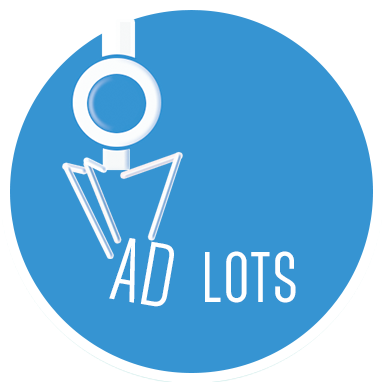
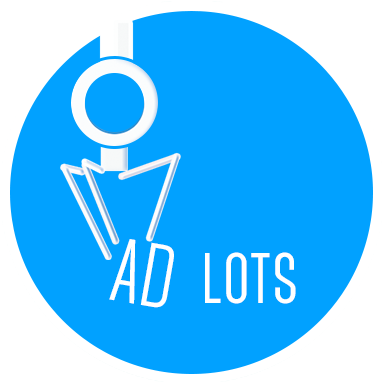
방학버전_홈페이지 수정

diff --git a/index.html b/index.html
@@ -71,9 +71,8 @@
 
     <header>
         <div class="header-content">
-          <p style="padding-top: 26px;"></p>
-            <div class="header-content-inner">
-                <h1>광고에 '같이'를 더하다</br></br>애드랏츠 ADLOTS </h1>
+            <div class="header-content-inner" >
+                <h1 >광고에 '같이'를 더하다</br></br>애드랏츠 ADLOTS </h1>
                 <hr>
                 <p>작은 포인트도 우리에겐 소중하다!</p>
                 <a href="https://play.google.com/store/apps/details?id=com.adlots.adlots" class="btn btn-primary btn-xl page-scroll" target="_blank">
@@ -145,7 +144,7 @@
                 </div>
                 <div class="col-lg-4 col-sm-6">
                     <a href="#" class="portfolio-box">
-                        <img src="img/portfolio/image2.jpg" class="img-responsive" alt="">
+                        <img src="img/portfolio/image2.png" class="img-responsive" alt="">
                         <div class="portfolio-box-caption">
                             <div class="portfolio-box-caption-content">
                                 <div class="project-category text-faded">
@@ -160,7 +159,7 @@
                 </div>
                 <div class="col-lg-4 col-sm-6">
                     <a href="#" class="portfolio-box">
-                        <img src="img/portfolio/image3.jpg" class="img-responsive" alt="">
+                        <img src="img/portfolio/image3.png" class="img-responsive" alt="">
                         <div class="portfolio-box-caption">
                             <div class="portfolio-box-caption-content">
                                 <div class="project-category text-faded">
@@ -175,7 +174,7 @@
                 </div>
                 <div class="col-lg-4 col-sm-6">
                     <a href="#" class="portfolio-box">
-                        <img src="img/portfolio/image4.jpg" class="img-responsive" alt="">
+                        <img src="img/portfolio/image4.png" class="img-responsive" alt="">
                         <div class="portfolio-box-caption">
                             <div class="portfolio-box-caption-content">
                                 <div class="project-category text-faded">
@@ -190,7 +189,7 @@
                 </div>
                 <div class="col-lg-4 col-sm-6">
                     <a href="#" class="portfolio-box">
-                        <img src="img/portfolio/image5.jpg" class="img-responsive" alt="">
+                        <img src="img/portfolio/image5.png" class="img-responsive" alt="">
                         <div class="portfolio-box-caption">
                             <div class="portfolio-box-caption-content">
                                 <div class="project-category text-faded">
@@ -205,7 +204,7 @@
                 </div>
                 <div class="col-lg-4 col-sm-6">
                     <a href="#" class="portfolio-box">
-                        <img src="img/portfolio/image6.jpg" class="img-responsive" alt="">
+                        <img src="img/portfolio/image6.png" class="img-responsive" alt="">
                         <div class="portfolio-box-caption">
                             <div class="portfolio-box-caption-content">
                                 <div class="project-category text-faded">
@@ -252,7 +251,7 @@
                     <p><a href="mailto:adlots@naver.com">adlots@naver.com</a></p>
                 </div>
 
-                <div class="footer" id="sns">
+                <div class="col-lg-4 center">
                   <p>
                     <h5>
                     블로그
@@ -273,7 +272,7 @@
                 </div>
 
                       <div id="gmap">
-                        <iframe  frameborder="0" scrolling="no" marginheight="0" marginwidth="0" src="https://www.google.com/maps/embed?pb=!1m18!1m12!1m3!1d2728.876750224269!2d129.18784272461602!3d35.57346378861907!2m3!1f0!2f0!3f0!3m2!1i1024!2i768!4f13.1!3m3!1m2!1s0x35662fd1610bf9e5%3A0x6fba45de1824ac69!2zVU5JU1Qo7Jq47IKw6rO87ZWZ6riw7Iig7JuQKQ!5e0!3m2!1sko!2sus!4v1461464628712" width="400" height="300" frameborder="0" style="border:1" ></iframe>
+                        <iframe  frameborder="0" scrolling="no" marginheight="0" marginwidth="0" src="https://www.google.com/maps/embed?pb=!1m18!1m12!1m3!1d2728.876750224269!2d129.18784272461602!3d35.57346378861907!2m3!1f0!2f0!3f0!3m2!1i1024!2i768!4f13.1!3m3!1m2!1s0x35662fd1610bf9e5%3A0x6fba45de1824ac69!2zVU5JU1Qo7Jq47IKw6rO87ZWZ6riw7Iig7JuQKQ!5e0!3m2!1sko!2sus!4v1461464628712"  height="300" frameborder="0" style="border:1" ></iframe>
                 </div>
 
 
@@ -281,7 +280,17 @@
         </div>
     </section>
 
+    <footer style="padding: 10px;">
 
+      <p>
+        <h6 style=" height: 150px;" > 대표자 : 백경인<br> 상호명 : 크라우딧 <br> 사업자등록번호 620-13-56399<br></br>
+        사업자 정보 확인 : </br>울산광역시 울주군 언양읍 유니스트길 50<br></br>
+        Copyright © 2015- adlots Inc. All rights reserved.
+        </h6>
+      </p>
+
+
+    </footer>
 
     <!-- jQuery -->
     <script src="js/jquery.js"></script>
@@ -297,21 +306,7 @@
     <!-- Custom Theme JavaScript -->
     <script src="js/creative.js"></script>
 
-<footer>
-  <div id="footer_logo" class>
-    <a href = "http://adlots.co.kr" traget="_blank">
-      <img src="img/adlots.png" width="100" height="100" alt="adlots_logo">
-    </a>
-  </div>
-  <p>
-    <h6> 대표자 : 백경인<br> 상호명 : 애드랏츠 주식회사 <br> 사업자등록번호 620-13-56399<br></br>
-    사업자정보확인 : 울산광역시 울주군 언양읍 유니스트길 50<br></br>
-    Copyright © 2015- adlots Inc. All rights reserved.
-    </h6>
-  </p>
 
-
-</footer>
 
 
 

diff --git a/css/creative.css b/css/creative.css
@@ -186,7 +186,7 @@ header {
     min-height: auto;
     text-align: center;
     color: #fff;
-    background-image: url(../img/header.jpg);
+    background-image: url(../img/header.png);
     background-position: center;
     -webkit-background-size: cover;
     -moz-background-size: cover;
@@ -339,7 +339,7 @@ header .header-content .header-content-inner p {
 }
 
 .text-primary {
-    color: #1966cb;
+    color: #01a1ff ;
 }
 
 .no-gutter > [class*=col-] {
@@ -402,7 +402,7 @@ fieldset[disabled] .btn-default.active {
 }
 
 .btn-primary {
-    border-color: #1966cb;
+    border-color: #01a1ff ;
     color: #222;
     background-color: #fff;
     -webkit-transition: all .35s;
@@ -446,12 +446,12 @@ fieldset[disabled] .btn-primary:active,
 .btn-primary.disabled.active,
 .btn-primary[disabled].active,
 fieldset[disabled] .btn-primary.active {
-    border-color: #1966cb;
-    background-color: #1966cb;
+    border-color: #01a1ff ;
+    background-color: #01a1ff ;
 }
 
 .btn-primary .badge {
-    color: #1966cb;
+    color: #01a1ff ;
     background-color: #fff;
 
     bottom: 0;

diff --git a/js/creative.js b/js/creative.js
@@ -30,7 +30,7 @@
     // Fit Text Plugin for Main Header
     $("h1").fitText(
         1.2, {
-            minFontSize: '35px',
+            minFontSize: '32px',
             maxFontSize: '65px'
         }
     );
